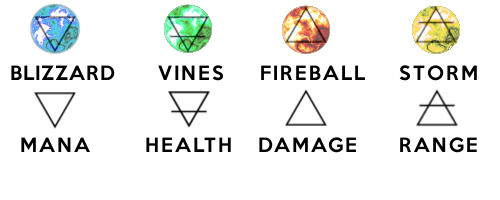
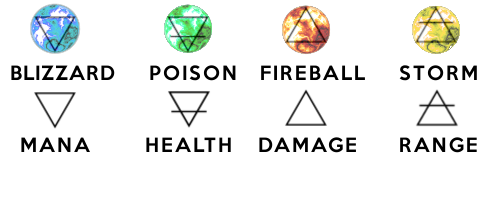
Rename vines -> poison

Changed region(s): [[0.3, 0.3, 0.48, 0.42]]

diff --git a/src/game.ts b/src/game.ts
@@ -16,11 +16,11 @@ import { GameLoopSystem } from './gameLoopSystem'
 // Spells //
 // TODO: blizzard => bind/freeze, vines => poison/DoT, fire => dmg, storm => knockback
 // TODO: enemy types with weaknesses
-// TODO: better spell models
-// Blizzard: Water damage [ Knockback ]
-// Creeping vines: Earth damage [ Slow Enemy ]
+// TODO: better spell 3d models
+// Blizzard: Ice damage [ slow enemy ]
+// Poison: Earth damage [ poison enemy ]
 // Fireball: Fire damage [ DMG+ ]
-// Storm: Lightning damage [ Attack speed+ ] // TODO: attack speed is lame
+// Storm: Air damage [ knockback enemy ]
 
 // set scene constants
 const scene         = new Scene()
@@ -32,11 +32,11 @@ const player        = new Player()
 const soundLibrary  = new SoundLibrary()
 
 // spells
-const blizzard      = new Spell('blizzard', 'iceball.gltf', soundLibrary, {'knockback': 1})
-const vines         = new Spell('vines', 'poison.gltf', soundLibrary, {'slow': 1})
+const blizzard      = new Spell('blizzard', 'iceball.gltf', soundLibrary, {'slow': 1})
+const poison        = new Spell('poison', 'poison.gltf', soundLibrary, {'dot': 0.5})
 const fireball      = new Spell('fireball', 'fireball.gltf', soundLibrary, {'dmg': 2.5})
-const storm         = new Spell('storm', 'trashy.gltf', soundLibrary, {'atkSpeed': 1})
-const spells        = [blizzard, vines, fireball, storm]
+const storm         = new Spell('storm', 'trashy.gltf', soundLibrary, {'knockback': 1})
+const spells        = [blizzard, poison, fireball, storm]
 
 // UI and helpers
 const gameState     = new GameState()

diff --git a/src/skillUpgrades.ts b/src/skillUpgrades.ts
@@ -79,13 +79,13 @@ export class SkillUpgrades {
       this.showPurchaseWindow('blizzard', 'spell')
     })
 
-    let vines = new SkillUpgrade(this.container, 'vines')
-    vines.positionX = -45
-    vines.positionY = -10
-    vines.onClick = new OnClick(() => {
-      log('vines')
+    let poison = new SkillUpgrade(this.container, 'poison')
+    poison.positionX = -45
+    poison.positionY = -10
+    poison.onClick = new OnClick(() => {
+      log('poison')
       this.soundLibrary.play('button_click')
-      this.showPurchaseWindow('vines', 'spell')
+      this.showPurchaseWindow('poison', 'spell')
     })
 
     let fireball = new SkillUpgrade(this.container, 'fireball')
@@ -238,7 +238,7 @@ class SkillUpgrade extends UIImage {
 
   skillImgMap = {
     'blizzard': [0,0],
-    'vines': [125,0],
+    'poison': [125,0],
     'fireball': [250,0],
     'storm': [375,0],
     'maxMana': [0,80],

diff --git a/src/soundLibrary.ts b/src/soundLibrary.ts
@@ -11,7 +11,7 @@ export class SoundLibrary {
     const portalClose = new Sound('portal_close.wav')
     const stormSpell = new Sound('lightning.wav')
     const upgradeSkill = new Sound('downgrade_select.mp3')
-    const vinesSpell = new Sound('vines.wav')
+    const poisonSpell = new Sound('poison.wav')
     const waveComplete = new Sound('magic_spell_06.wav')
 
     this.library =  {
@@ -23,7 +23,7 @@ export class SoundLibrary {
       spell_blizzard: blizzardSpell,
       spell_fireball: fireballSpell,
       spell_storm: stormSpell,
-      spell_vines: vinesSpell,
+      spell_poison: poisonSpell,
       upgrade_skill: upgradeSkill,
       wave_complete: waveComplete
     }

diff --git a/src/playerUI.ts b/src/playerUI.ts
@@ -11,7 +11,7 @@ export class PlayerUI {
 
   spellImgMap = {
     'blizzard': 0,
-    'vines': 50,
+    'poison': 50,
     'fireball': 100,
     'storm': 150
   }
